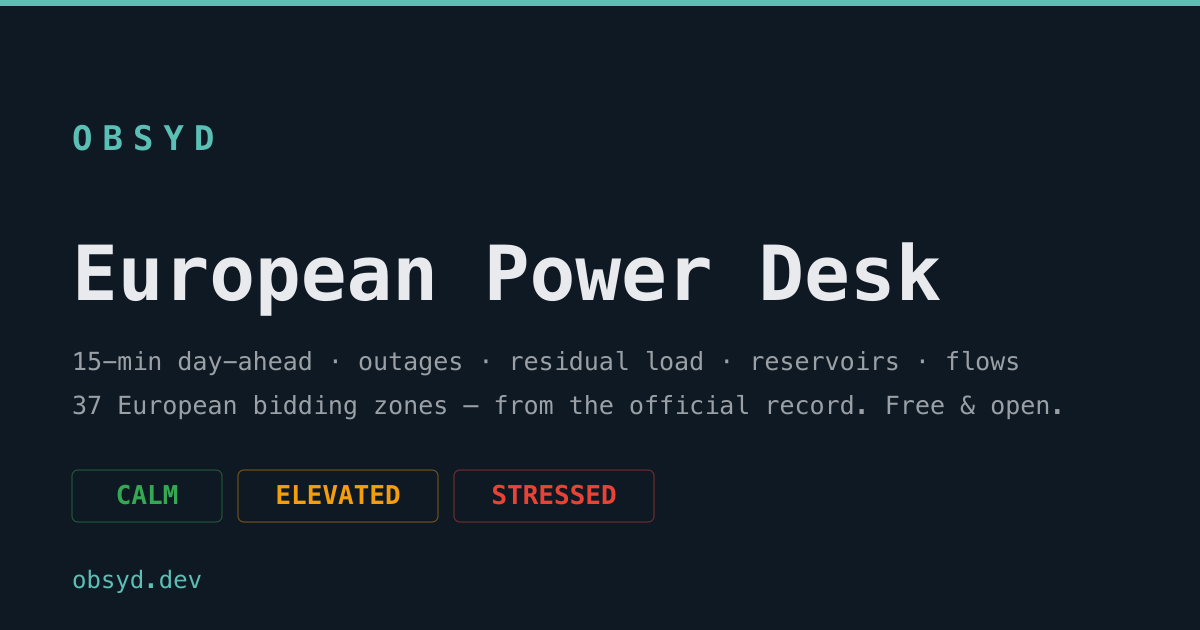
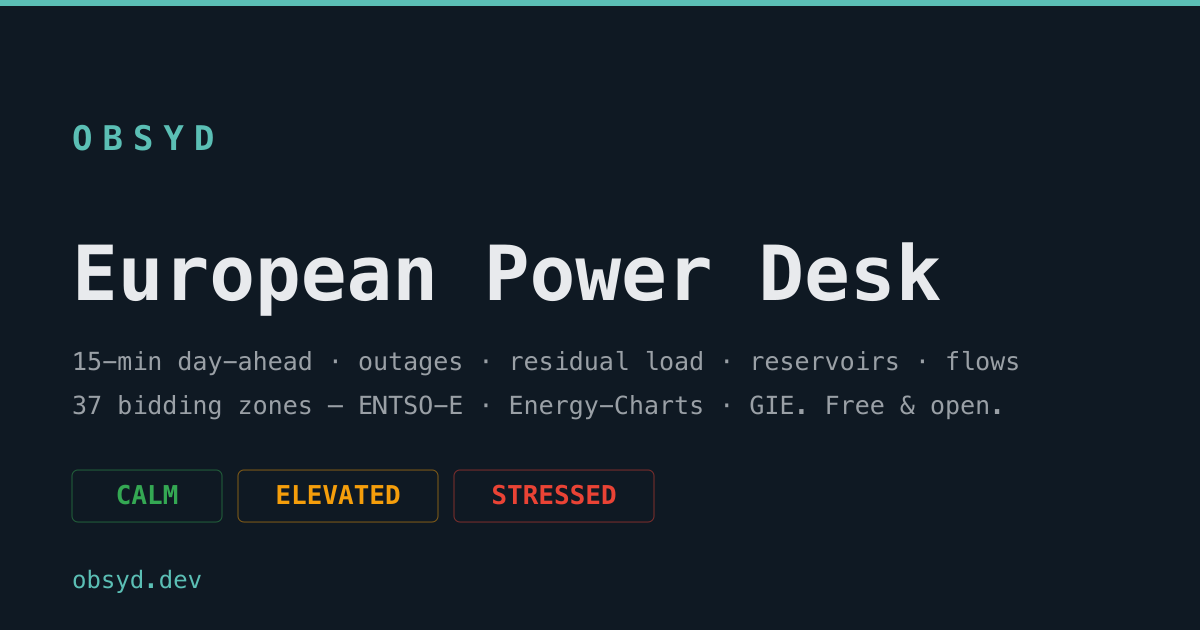
One description, told the same way everywhere the page introduces itself
The shopfront told four different stories: the meta description hung
15-min prices, the outage board and flows all on "across 37 zones", the
og:description repeated it, the Twitter card still said DE-LU/FR/NL, and
the JSON-LD block agreed with the Twitter card. Google, meanwhile, still
serves the pre-pivot oil pitch — a reindex request only helps if what it
recrawls is consistent.

All four variants (meta description, og, twitter, schema.org) now carry
one identical, audit-fast description aligned with the README lede from
the readiness audit: the 37-zone claim attaches only to prices/load/mix,
15-minute is qualified "where SDAC trades it", and Fraunhofer
Energy-Charts is named beside the official record (ENTSO-E, GIE) instead
of inside it. The og-image, landing hero, pillar 01, the data list and
the developers blurb carried the same overclaims and get the same
treatment; the README parenthesis follows suit.

Changed region(s): [[0.0925, 0.6032, 0.8942, 0.6635]]

diff --git a/frontend/index.html b/frontend/index.html
@@ -7,7 +7,7 @@
     <script>
       try { if (localStorage.getItem('obsyd-theme') !== 'dark') document.documentElement.classList.add('light') } catch (e) {}
     </script>
-    <meta name="description" content="OBSYD — the European electricity desk. Day-ahead prices at the market's real 15-minute resolution, load &amp; residual load, generation mix, a live generation-outage board and cross-border flows across 37 European bidding zones — plus reservoir levels, forecasts, the gas that fuels the marginal price, and a live anomaly radar. From the official record (ENTSO-E, Energy-Charts, GIE). Descriptive, auditable, free." />
+    <meta name="description" content="The European electricity desk: day-ahead prices, load &amp; residual load and generation mix for 37 European bidding zones — hourly everywhere, 15-minute where SDAC trades it — plus generation outages, cross-border flows, reservoir levels, forecasts and the gas that fuels the marginal price, with a live anomaly radar. From the official record (ENTSO-E, GIE) and Fraunhofer Energy-Charts. Descriptive, auditable, free &amp; open source." />
     <meta name="robots" content="index, follow" />
     <meta name="theme-color" content="#f6f7f9" />
     <link rel="canonical" href="https://obsyd.dev/" />
@@ -18,14 +18,14 @@
     <meta property="og:type" content="website" />
     <meta property="og:site_name" content="OBSYD" />
     <meta property="og:title" content="OBSYD — The European Electricity Desk" />
-    <meta property="og:description" content="A free European power desk: 37 European bidding zones, 15-minute day-ahead prices, a live outage board, reservoir levels and a live anomaly radar — honest about its own data age. Descriptive, auditable, free." />
+    <meta property="og:description" content="The European electricity desk: day-ahead prices, load &amp; residual load and generation mix for 37 European bidding zones — hourly everywhere, 15-minute where SDAC trades it — plus generation outages, cross-border flows, reservoir levels, forecasts and the gas that fuels the marginal price, with a live anomaly radar. From the official record (ENTSO-E, GIE) and Fraunhofer Energy-Charts. Descriptive, auditable, free &amp; open source." />
     <meta property="og:url" content="https://obsyd.dev/" />
     <meta property="og:image" content="https://obsyd.dev/og-image.png" />
     <meta property="og:image:width" content="1200" />
     <meta property="og:image:height" content="630" />
     <meta name="twitter:card" content="summary_large_image" />
     <meta name="twitter:title" content="OBSYD — The European Electricity Desk" />
-    <meta name="twitter:description" content="A free European power desk — day-ahead prices, load, generation mix, cross-border flows &amp; forecasts for DE-LU/FR/NL, with a live anomaly radar. Free &amp; open source." />
+    <meta name="twitter:description" content="The European electricity desk: day-ahead prices, load &amp; residual load and generation mix for 37 European bidding zones — hourly everywhere, 15-minute where SDAC trades it — plus generation outages, cross-border flows, reservoir levels, forecasts and the gas that fuels the marginal price, with a live anomaly radar. From the official record (ENTSO-E, GIE) and Fraunhofer Energy-Charts. Descriptive, auditable, free &amp; open source." />
     <meta name="twitter:image" content="https://obsyd.dev/og-image.png" />
     <script type="application/ld+json">
       {
@@ -33,7 +33,7 @@
         "@type": "WebSite",
         "name": "OBSYD",
         "url": "https://obsyd.dev/",
-        "description": "The European electricity desk. Day-ahead prices, load, generation mix, cross-border flows and forecasts for DE-LU/FR/NL, with a live anomaly radar. From the official record, descriptive and auditable."
+        "description": "The European electricity desk: day-ahead prices, load & residual load and generation mix for 37 European bidding zones — hourly everywhere, 15-minute where SDAC trades it — plus generation outages, cross-border flows, reservoir levels, forecasts and the gas that fuels the marginal price, with a live anomaly radar. From the official record (ENTSO-E, GIE) and Fraunhofer Energy-Charts. Descriptive, auditable, free & open source."
       }
     </script>
 

diff --git a/frontend/src/components/Landing.jsx b/frontend/src/components/Landing.jsx
@@ -6,7 +6,7 @@ const PILLARS = [
     label: '01',
     title: 'See the whole grid at a glance',
     body:
-      'Day-ahead prices at the market’s real 15-minute resolution, load & residual load, the generation mix, cross-border flows and a live generation-outage board — across 37 European bidding zones, plus Nordic & Alpine reservoir levels and the gas that fuels the marginal price. One desk, not a dozen ENTSO-E queries to reconcile by hand.',
+      'Day-ahead prices, load & residual load and the generation mix for 37 European bidding zones — hourly everywhere, at the market’s real 15-minute resolution where SDAC trades it — plus a live generation-outage board, cross-border flows, Nordic & Alpine reservoir levels and the gas that fuels the marginal price. One desk, not a dozen ENTSO-E queries to reconcile by hand.',
   },
   {
     label: '02',
@@ -71,10 +71,10 @@ export default function Landing() {
           <span className="text-cyan-glow">every zone, one desk, free.</span>
         </h1>
         <p className="text-sm sm:text-base text-neutral-400 max-w-2xl leading-relaxed mb-8">
-          A free European power desk: day-ahead prices, load & residual load, generation mix,
-          wind/solar and cross-border flows across 37 European bidding zones — plus tomorrow’s load & residual
+          A free European power desk: day-ahead prices, load & residual load, generation mix and
+          wind/solar for 37 European bidding zones — plus cross-border flows, tomorrow’s load & residual
           forecast and the gas that fuels the marginal price — from the official record (ENTSO-E,
-          Fraunhofer Energy-Charts, GIE), with a live anomaly radar. Descriptive, auditable, open
+          GIE) and Fraunhofer Energy-Charts, with a live anomaly radar. Descriptive, auditable, open
           source under AGPL-3.0 — run it yourself, or use the hosted cloud.
         </p>
 
@@ -141,7 +141,7 @@ export default function Landing() {
           </button>
           {glanceOpen && (
             <ul className="space-y-1.5 mt-2">
-              <li>· ENTSO-E — day-ahead prices (15-min), load, generation mix, outages, reservoirs &amp; forecasts (37 zones)</li>
+              <li>· ENTSO-E — day-ahead prices (15-min where traded), load, generation mix &amp; forecasts (37 zones); outages &amp; reservoirs where zones publish them</li>
               <li>· Fraunhofer Energy-Charts — cross-border physical power flows (CC BY 4.0)</li>
               <li>· GIE (AGSI/ALSI) + ENTSOG — European gas storage, LNG send-out &amp; pipeline flows</li>
               <li>· TTF / NG — the gas that sets the marginal power price (spark spread)</li>
@@ -293,7 +293,7 @@ export default function Landing() {
           Every number, straight into your <span className="text-cyan-glow">notebook</span>.
         </h2>
         <p className="text-[13px] text-neutral-400 max-w-2xl mb-7 leading-relaxed">
-          A free, versioned public API over the same official record — day-ahead prices at the
+          A free, versioned public API over the same sources — day-ahead prices down to the
           market&apos;s real 15-minute resolution, load, generation mix, cross-border flows. No key,
           no account. JSON, streamed CSV or Parquet — and a pandas client.
         </p>

diff --git a/README.md b/README.md
@@ -1,6 +1,6 @@
 # OBSYD — the European electricity desk
 
-**One desk for the European power grid: day-ahead prices, load & residual load and generation mix across 37 bidding zones — hourly everywhere, 15-minute day-ahead where SDAC trades it (35 of 37 zones; CH and IE-SEM are hourly-only) — plus a live generation-outage board (where zones publish outages), country-level cross-border flows, reservoir levels for the 15 hydro zones, forecasts and the gas that fuels the marginal price — from the official record (ENTSO-E, Fraunhofer Energy-Charts, GIE).**
+**One desk for the European power grid: day-ahead prices, load & residual load and generation mix across 37 bidding zones — hourly everywhere, 15-minute day-ahead where SDAC trades it (35 of 37 zones; CH and IE-SEM are hourly-only) — plus a live generation-outage board (where zones publish outages), country-level cross-border flows, reservoir levels for the 15 hydro zones, forecasts and the gas that fuels the marginal price — from the official record (ENTSO-E, GIE) and Fraunhofer Energy-Charts.**
 
 [Live Demo](https://obsyd.dev) · [Free & open source](#cloud-hosting-or-self-host) · [AGPL-3.0](LICENSE)
 
